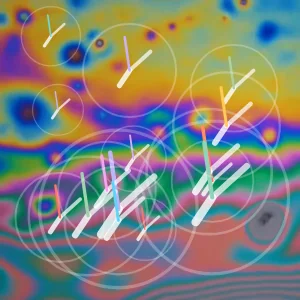
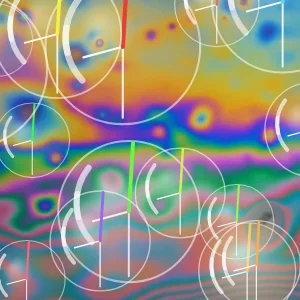
m

diff --git a/src/pages/2026/26-08/26-08-24/Clock.tsx b/src/pages/2026/26-08/26-08-24/Clock.tsx
@@ -25,6 +25,17 @@ interface CanvasParams {
   secondWidth: number;
   secondLength: number;
   scale: number;
+  fillOpacity: number;
+  highlightOpacity: number;
+  glossOpacity: number;
+  highlightThickness: number;
+  highlightOpacity2: number;
+  highlightOffsetX: number;
+  highlightOffsetY: number;
+  highlightRadiusScale: number;
+  highlightStartAngle: number;
+  highlightEndAngle: number;
+  highlightGap: number;
 }
 
 function getRandomBrightColor(): string {
@@ -45,17 +56,28 @@ const BubbleClock: React.FC = () => {
   const heightRef = useRef(0);
   const canvasParamsRef = useRef<CanvasParams>({
     faceRadius: 36,
-    faceStroke: 'rgba(255, 255, 255, 0.45)',
-    faceLineWidth: 1.5,
-    hourColor: 'rgba(255, 255, 255, 0.9)',
+    faceStroke: 'rgba(255, 255, 255, 0.55)',
+    faceLineWidth: 2,
+    hourColor: 'rgba(255, 255, 255, 0.95)',
     hourWidth: 4,
     hourLength: 14,
-    minuteColor: 'rgba(255, 255, 255, 0.8)',
+    minuteColor: 'rgba(255, 255, 255, 0.85)',
     minuteWidth: 3,
     minuteLength: 22,
     secondWidth: 2,
     secondLength: 26,
     scale: 40,
+    fillOpacity: 0.1,
+    highlightOpacity: 0.45,
+    glossOpacity: 0.15,
+    highlightThickness: 2.5,
+    highlightOpacity2: 0.65,
+    highlightOffsetX: 0.08,
+    highlightOffsetY: -0.12,
+    highlightRadiusScale: 0.82,
+    highlightStartAngle: 2.4,
+    highlightEndAngle: 3.8,
+    highlightGap: 0.5,
   });
 
   const readCssParams = () => {
@@ -64,17 +86,28 @@ const BubbleClock: React.FC = () => {
     const style = getComputedStyle(container);
     canvasParamsRef.current = {
       faceRadius: parseFloat(style.getPropertyValue('--clock-face-radius')) || 36,
-      faceStroke: style.getPropertyValue('--clock-face-stroke').trim() || 'rgba(255, 255, 255, 0.45)',
-      faceLineWidth: parseFloat(style.getPropertyValue('--clock-face-line-width')) || 1.5,
-      hourColor: style.getPropertyValue('--clock-hour-color').trim() || 'rgba(255, 255, 255, 0.9)',
+      faceStroke: style.getPropertyValue('--clock-face-stroke').trim() || 'rgba(255, 255, 255, 0.55)',
+      faceLineWidth: parseFloat(style.getPropertyValue('--clock-face-line-width')) || 2,
+      hourColor: style.getPropertyValue('--clock-hour-color').trim() || 'rgba(255, 255, 255, 0.95)',
       hourWidth: parseFloat(style.getPropertyValue('--clock-hour-width')) || 4,
       hourLength: parseFloat(style.getPropertyValue('--clock-hour-length')) || 14,
-      minuteColor: style.getPropertyValue('--clock-minute-color').trim() || 'rgba(255, 255, 255, 0.8)',
+      minuteColor: style.getPropertyValue('--clock-minute-color').trim() || 'rgba(255, 255, 255, 0.85)',
       minuteWidth: parseFloat(style.getPropertyValue('--clock-minute-width')) || 3,
       minuteLength: parseFloat(style.getPropertyValue('--clock-minute-length')) || 22,
       secondWidth: parseFloat(style.getPropertyValue('--clock-second-width')) || 2,
       secondLength: parseFloat(style.getPropertyValue('--clock-second-length')) || 26,
       scale: parseFloat(style.getPropertyValue('--clock-scale')) || 40,
+      fillOpacity: parseFloat(style.getPropertyValue('--bubble-fill-opacity')) || 0.1,
+      highlightOpacity: parseFloat(style.getPropertyValue('--bubble-highlight-opacity')) || 0.45,
+      glossOpacity: parseFloat(style.getPropertyValue('--bubble-gloss-opacity')) || 0.15,
+      highlightThickness: parseFloat(style.getPropertyValue('--bubble-highlight-thickness')) || 2.5,
+      highlightOpacity2: parseFloat(style.getPropertyValue('--bubble-highlight-opacity-2')) || 0.65,
+      highlightOffsetX: parseFloat(style.getPropertyValue('--bubble-highlight-offset-x')) || 0.08,
+      highlightOffsetY: parseFloat(style.getPropertyValue('--bubble-highlight-offset-y')) || -0.12,
+      highlightRadiusScale: parseFloat(style.getPropertyValue('--bubble-highlight-radius-scale')) || 0.82,
+      highlightStartAngle: parseFloat(style.getPropertyValue('--bubble-highlight-start-angle')) || 2.4,
+      highlightEndAngle: parseFloat(style.getPropertyValue('--bubble-highlight-end-angle')) || 3.8,
+      highlightGap: parseFloat(style.getPropertyValue('--bubble-highlight-gap')) || 0.5,
     };
   };
 
@@ -207,25 +240,49 @@ const BubbleClock: React.FC = () => {
       ctx.arc(0, 0, params.faceRadius, 0, Math.PI * 2);
       ctx.strokeStyle = params.faceStroke;
       ctx.lineWidth = params.faceLineWidth;
-      ctx.fillStyle = secondColor.replace(')', ', 0.08)').replace('hsl', 'hsla');
+      ctx.fillStyle = secondColor.replace(')', `, ${params.fillOpacity})`).replace('hsl', 'hsla');
       ctx.fill();
       ctx.stroke();
 
       const highlight = ctx.createRadialGradient(
-        -params.faceRadius * 0.25,
-        -params.faceRadius * 0.25,
+        -params.faceRadius * 0.3,
+        -params.faceRadius * 0.3,
         params.faceRadius * 0.05,
         0,
         0,
         params.faceRadius
       );
-      highlight.addColorStop(0, 'rgba(255, 255, 255, 0.35)');
-      highlight.addColorStop(0.4, 'rgba(255, 255, 255, 0.08)');
+      highlight.addColorStop(0, `rgba(255, 255, 255, ${params.highlightOpacity})`);
+      highlight.addColorStop(0.35, `rgba(255, 255, 255, ${params.glossOpacity})`);
       highlight.addColorStop(1, 'rgba(255, 255, 255, 0.0)');
       ctx.beginPath();
       ctx.arc(0, 0, params.faceRadius, 0, Math.PI * 2);
       ctx.fillStyle = highlight;
       ctx.fill();
+
+      ctx.strokeStyle = `rgba(255, 255, 255, ${params.highlightOpacity2})`;
+      ctx.lineWidth = params.highlightThickness;
+      ctx.lineCap = 'round';
+      ctx.beginPath();
+      ctx.arc(
+        params.faceRadius * params.highlightOffsetX,
+        params.faceRadius * params.highlightOffsetY,
+        params.faceRadius * params.highlightRadiusScale,
+        params.highlightStartAngle,
+        params.highlightEndAngle,
+        false
+      );
+      ctx.stroke();
+      ctx.beginPath();
+      ctx.arc(
+        params.faceRadius * params.highlightOffsetX,
+        params.faceRadius * params.highlightOffsetY,
+        params.faceRadius * params.highlightRadiusScale,
+        params.highlightStartAngle + params.highlightGap,
+        params.highlightEndAngle - params.highlightGap,
+        false
+      );
+      ctx.stroke();
 
       ctx.strokeStyle = params.hourColor;
       ctx.lineWidth = params.hourWidth;

diff --git a/src/pages/2026/26-08/26-08-24/Clock.module.css b/src/pages/2026/26-08/26-08-24/Clock.module.css
@@ -1,19 +1,27 @@
 .container {
   --clock-face-radius: 36;
-  --clock-face-stroke: rgba(255, 255, 255, 0.45);
-  --clock-face-line-width: 1.5;
-  --clock-hour-color: rgba(255, 255, 255, 0.9);
-  --clock-hour-width: 4;
-  --clock-hour-length: 14;
-  --clock-minute-color: rgba(255, 255, 255, 0.8);
-  --clock-minute-width: 3;
-  --clock-minute-length: 22;
+  --clock-face-stroke: rgba(255, 255, 255, 0.55);
+  --clock-face-line-width: 1;
+  --clock-hour-color: rgba(255, 255, 255, 0.95);
+  --clock-hour-width: 1;
+  --clock-hour-length: 19;
+  --clock-minute-color: rgba(255, 255, 255, 0.85);
+  --clock-minute-width: 1;
+  --clock-minute-length: 33;
   --clock-second-width: 2;
-  --clock-second-length: 26;
+  --clock-second-length: 35;
   --clock-scale: 40;
-  --bubble-fill-opacity: 0.08;
-  --bubble-highlight-opacity: 0.25;
-  --bubble-gloss-opacity: 0.12;
+  --bubble-fill-opacity: 0.1;
+  --bubble-highlight-opacity: 0.45;
+  --bubble-gloss-opacity: 0.15;
+  --bubble-highlight-thickness: 3;
+  --bubble-highlight-opacity-2: 0.65;
+  --bubble-highlight-offset-x: 0.08;
+  --bubble-highlight-offset-y: -0.12;
+  --bubble-highlight-radius-scale: 0.82;
+  --bubble-highlight-start-angle: 2.4;
+  --bubble-highlight-end-angle: 3.8;
+  --bubble-highlight-gap: 0.5;
 
   position: fixed;
   top: 0;
